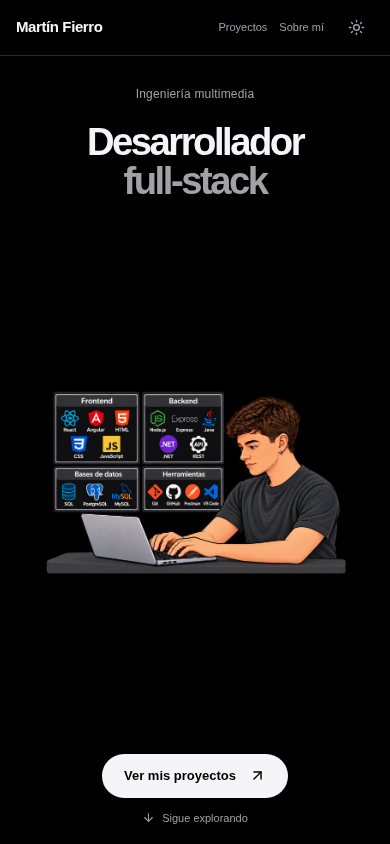
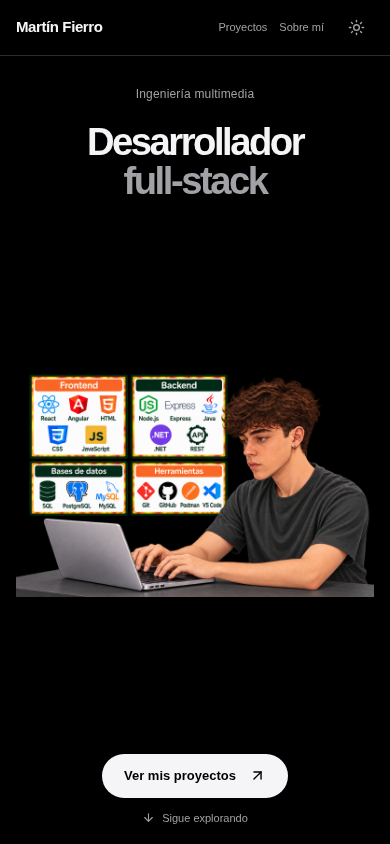
Unify portrait and workspace illustration style while preserving skills posters

Changed region(s): [[0.0308, 0.4313, 0.9538, 0.7085]]

diff --git a/src/components/DeveloperIllustration.jsx b/src/components/DeveloperIllustration.jsx
@@ -4,8 +4,8 @@ export default function DeveloperIllustration({ dark }) {
       className="developer-illustration"
       src={`/illustrations/martin-${dark ? "dark" : "light"}.png`}
       alt="Ilustración de Martín Fierro trabajando en su portátil, con cuatro cuadros de habilidades a su izquierda: Frontend, Backend, Bases de datos y Herramientas."
-      width={1672}
-      height={941}
+      width={1536}
+      height={1024}
       fetchPriority="high"
       decoding="async"
     />
